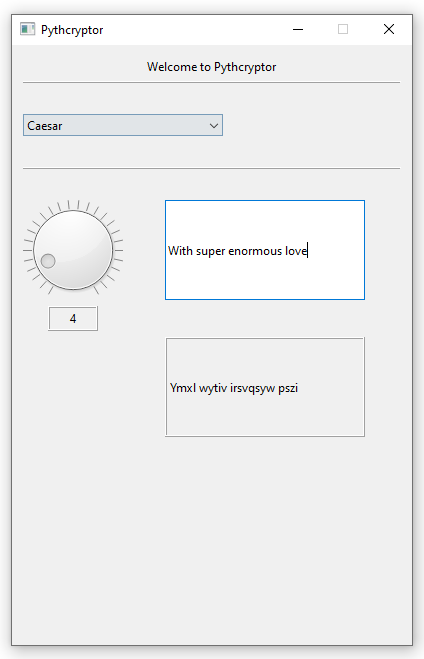
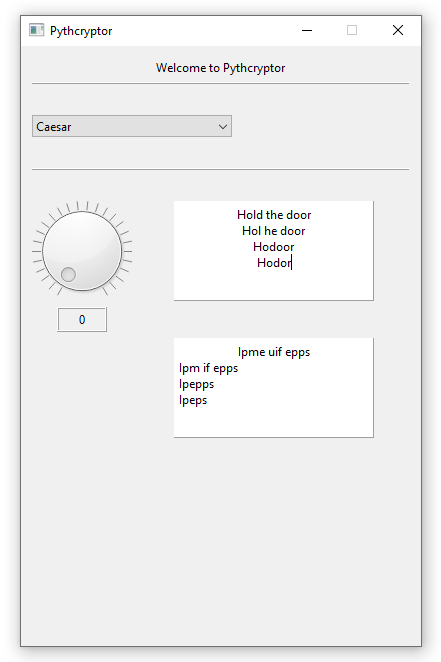
Update

diff --git a/Pythcryptor.py b/Pythcryptor.py
@@ -1,4 +1,4 @@
-from PySide6.QtWidgets import QApplication, QStyleFactory, QLineEdit, QWidget, QFormLayout, QListWidget, QComboBox, QLabel, QFrame, QDial, QColumnView, QVBoxLayout, QHBoxLayout, QInputDialog, QBoxLayout, QGridLayout, QSpacerItem, QSizePolicy
+from PySide6.QtWidgets import QApplication, QStyleFactory, QLineEdit, QTextEdit, QWidget, QFormLayout, QListWidget, QComboBox, QLabel, QFrame, QDial, QColumnView, QVBoxLayout, QHBoxLayout, QInputDialog, QBoxLayout, QGridLayout, QSpacerItem, QSizePolicy
 from PySide6.QtGui import QIntValidator, QDoubleValidator, QFont
 from PySide6.QtCore import Qt
 from functools import partial
@@ -125,7 +125,6 @@ class mainWindow(QWidget):
 
                         # No idea what it's supposed to do. I tried playing around with dynamically expanding elements.
                         # So far it turns out to be stupidly messed up. I will write own listener for this.
-                        # Learning about how Qt handles this is a waste of my time.
                         # shiftDial.setSizePolicy(QSizePolicy.Expanding, QSizePolicy.Expanding)
 
                         dialValue = QLabel()
@@ -144,14 +143,25 @@ class mainWindow(QWidget):
                         layoutDials.addWidget(dialValue)
 
                         # Caesar DATA INPUT/OUTPUT
-                        messageInput = QLineEdit("Your message")
+                        messageInput = QTextEdit("Your message")
                         messageInput.setFixedWidth(self.frameSize().toTuple()[0]*2/4)
                         messageInput.setFixedHeight(self.frameSize().toTuple()[0]*1/4)
+                        messageInput.setFrameStyle(QFrame.Panel | QFrame.Raised)
+                        messageInput.setAlignment(Qt.AlignHCenter | Qt.AlignVCenter)
 
-                        messageOutput = QLabel("Your encrypted message")
-                        messageOutput.setFrameStyle(QFrame.Box | QFrame.Raised)
+                        # For turning off scrollbars
+                        # self.setVerticalScrollBarPolicy(QtCore.Qt.ScrollBarAlwaysOff)
+                        # self.setHorizontalScrollBarPolicy(QtCore.Qt.ScrollBarAlwaysOff)
+                        # messageInput.setClearButtonEnabled(True)
+
+                        messageOutput = QTextEdit("Your encrypted message")
                         messageOutput.setFixedWidth(self.frameSize().toTuple()[0]*2/4)
                         messageOutput.setFixedHeight(self.frameSize().toTuple()[0]*1/4)
+                        messageOutput.setFrameStyle(QFrame.Panel | QFrame.Raised)
+                        messageOutput.setAlignment(Qt.AlignHCenter | Qt.AlignVCenter)
+
+                        # For Labels
+                        # messageOutput.setTextInteractionFlags(Qt.TextSelectableByMouse | Qt.TextSelectableByKeyboard)
 
                         layoutData = QBoxLayout(QBoxLayout.TopToBottom, parent = None)
                         # layoutData.setStretch(1, 1)
@@ -191,15 +201,16 @@ class mainWindow(QWidget):
                         shiftDial.valueChanged.connect(showValue)
                         def showMessage(): 
                                 array = ""
-                                for index in range(len(messageInput.text())):
-                                        char = messageInput.text()[index]
+                                for index in range(len(messageInput.toPlainText())):
+                                        char = messageInput.toPlainText()[index]
                                         if (ord(char) >=65 and ord(char) <=90):
-                                                array = array + chr((ord(char) + shiftDial.value() - 67) % 26 + 65)
+                                                array = array + chr((ord(char) + shiftDial.value() - 65) % 26 + 65)
                                         elif (ord(char) >=97 and ord(char) <=122):
                                                 array = array + chr((ord(char) + shiftDial.value() - 97) % 26 + 97)
                                         else:
                                                 array = array + char
                                 messageOutput.setText(array)
+                                messageOutput.setAlignment(Qt.AlignHCenter | Qt.AlignVCenter)
                         shiftDial.valueChanged.connect(showMessage)
                         messageInput.textChanged.connect(showMessage)
 

diff --git a/README.md b/README.md
@@ -4,35 +4,12 @@ Program for quick encryption and decryption of simple data. My first GUI program
 
 It is written using PySide6, manually, without QCreator or QtQuick.
 
-## About
+## Purpose
 
-Honestly speaking I got pissed off by a local company, because seemingly having experience with:
+I plan on implementing some basic ciphers, at least the ones I got to know during my studies.
 
-- C/C++
-- JS/TS/Python
+Basically a project merging my minor idea of a cryptography notebook with a handy implementation for my own use.
 
-with
-
-- Qt (QML)
-- HTML5/CSS3 (JS frameworks)
-- Windows Forms/UWP (UWP is a mess)
-
-is not enough to get an internship... in DevOps, even if you have a stupid Microsoft Azure Administrator Associate title.
-
-Before hearing from them I decided to give a try to GUI programming and see what PEP8 is (using PEP8 is as difficult as installing one plugin, perhaps they need 10 years of experience for that, who knows).
-
-Then after hearing from them, I got pissed off and wanted to mock them by learning to write a stupid GUI app from scratch in 2 days.
-Seemingly if I forgot how to load/save stupid files in Python (oopsie whoopsie, I was busy studying for an exam for 3 months and didn't touch python in the meanwhile), then I can't write a stupid GUI app in 2 days?
-
-Oh wait... I also had a prototype of recognizing ML images? Oh... well
-I guess I'm too stupid for an internship ./s
-
-I decided to use PySide instead of PyQt. It looked pretty good to me, so I finished the application prototype in 2 days (I never touched GUIs in Python before). I tried comparing it to QML, but QML is still kind of weird to me (mostly giving context to QML items from .py)
-
-PERHAPS ANOTHER DAY.
+## Preview
 
 ![Preview](Screenshot.png)
-
-### This app is basically a primitive prototype, nothing fancy (it's trash rn).
-
-Posted it under public, because why not. I will work on it and implement/merge my ideas for a book about cryptography and an app.
